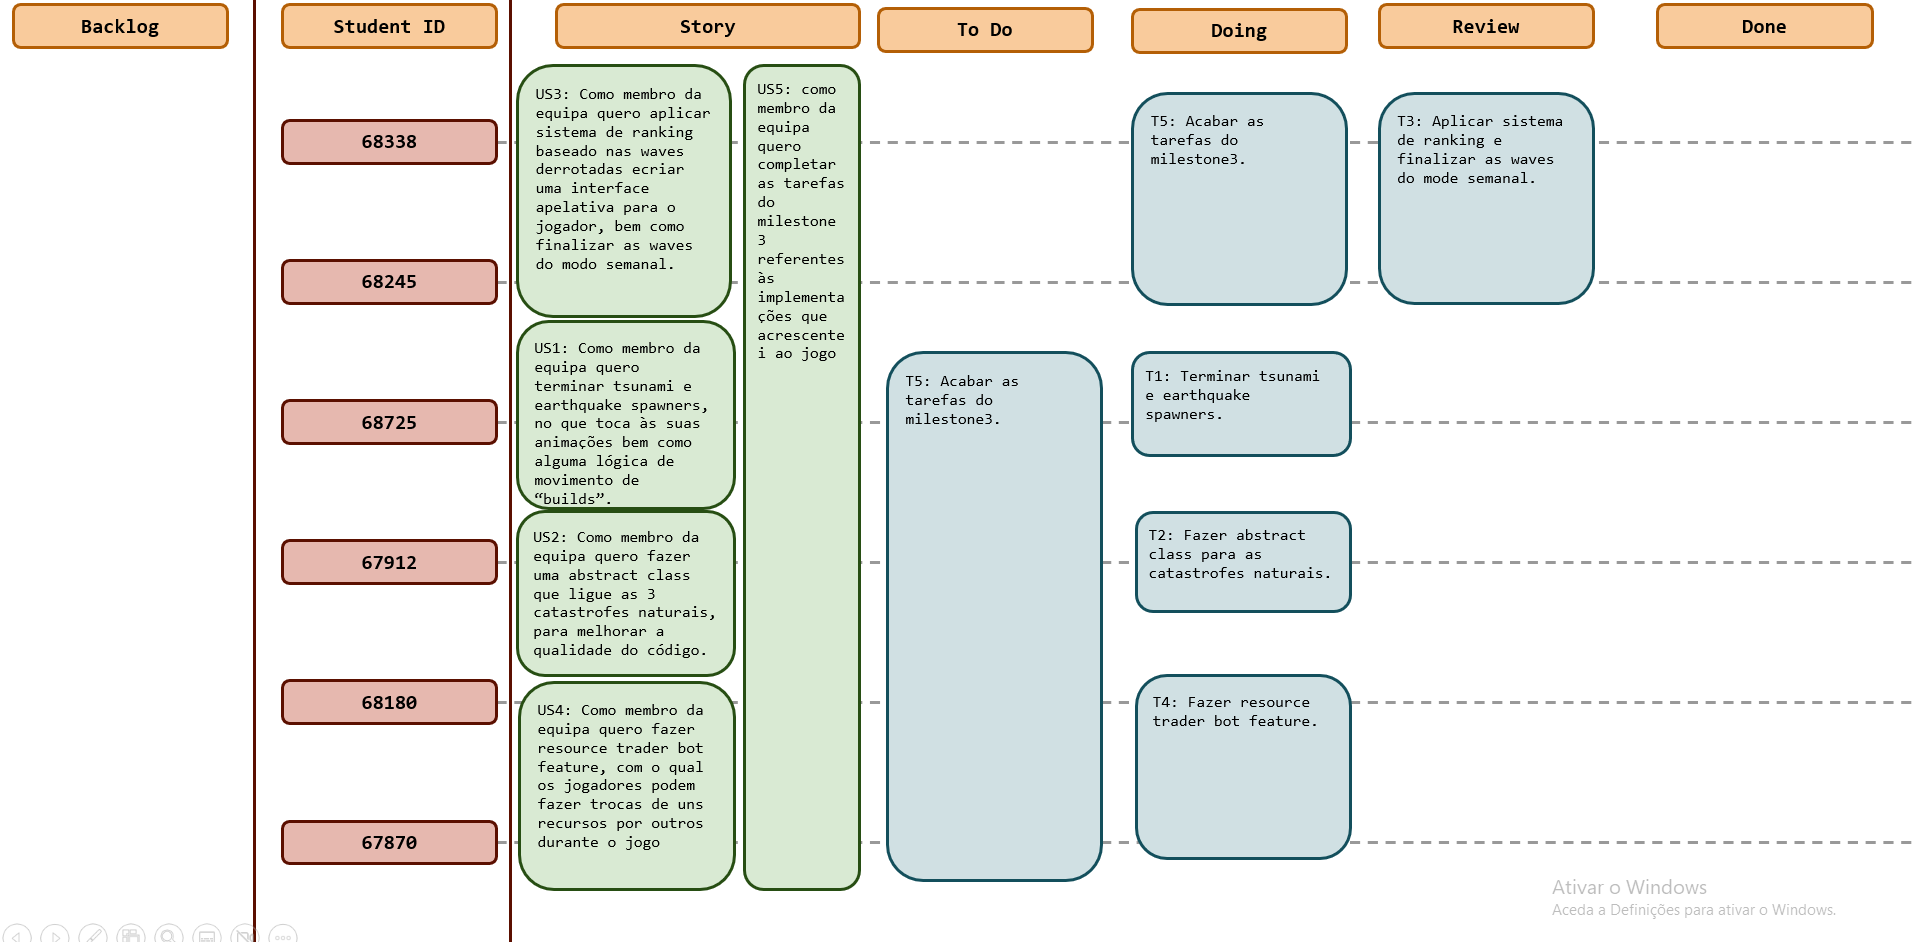
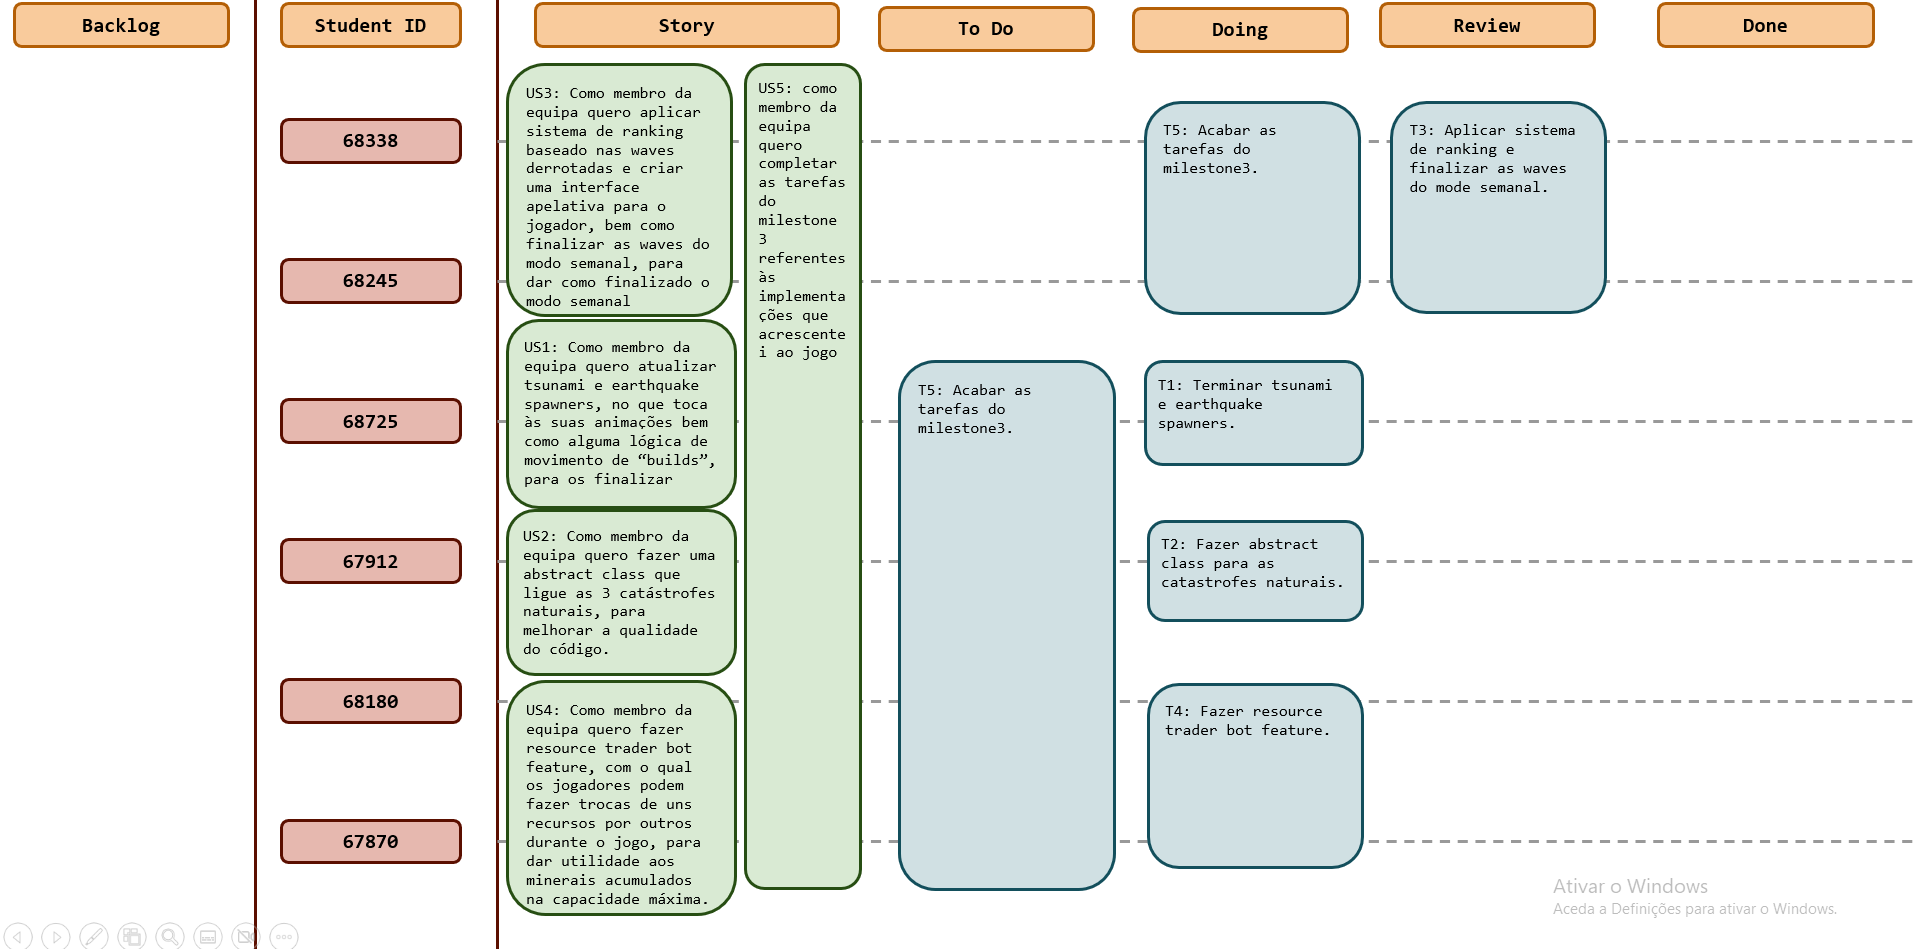
sprint details update and Us3 update (milestone3)

diff --git a/SE202526/Milestone3/UserStory3/README.md b/SE202526/Milestone3/UserStory3/README.md
@@ -6,7 +6,7 @@ Natural Disasters
 ## Reviewer(s)
 (*Please add the user story reviewer(s) here, one in each line, providing the authors' name and surname, along with their student number. In the reviews presented in this document, add the corresponding reviewers.*)
 ## User Story:
-Como jogadores achamos que as condições climáticas e eventos naturais deviam ter mais impacto no jogo, poderiam haver catástrofes naturais que interferiam diretamente com as construções dos jogadores de um modo que estes não podessem simplesmente selecionar e clicar B para corrigir (como tsunamis, terramotos ou meteoritos).
+Como jogadores achamos que as condições climáticas e eventos naturais deviam ter mais impacto no jogo, poderiam haver catástrofes naturais que interferiam diretamente com as construções dos jogadores, para tornar o jogo mais desafiante.
 ### Review
 *(Please add your user story review here)* 
 ## Use case diagram